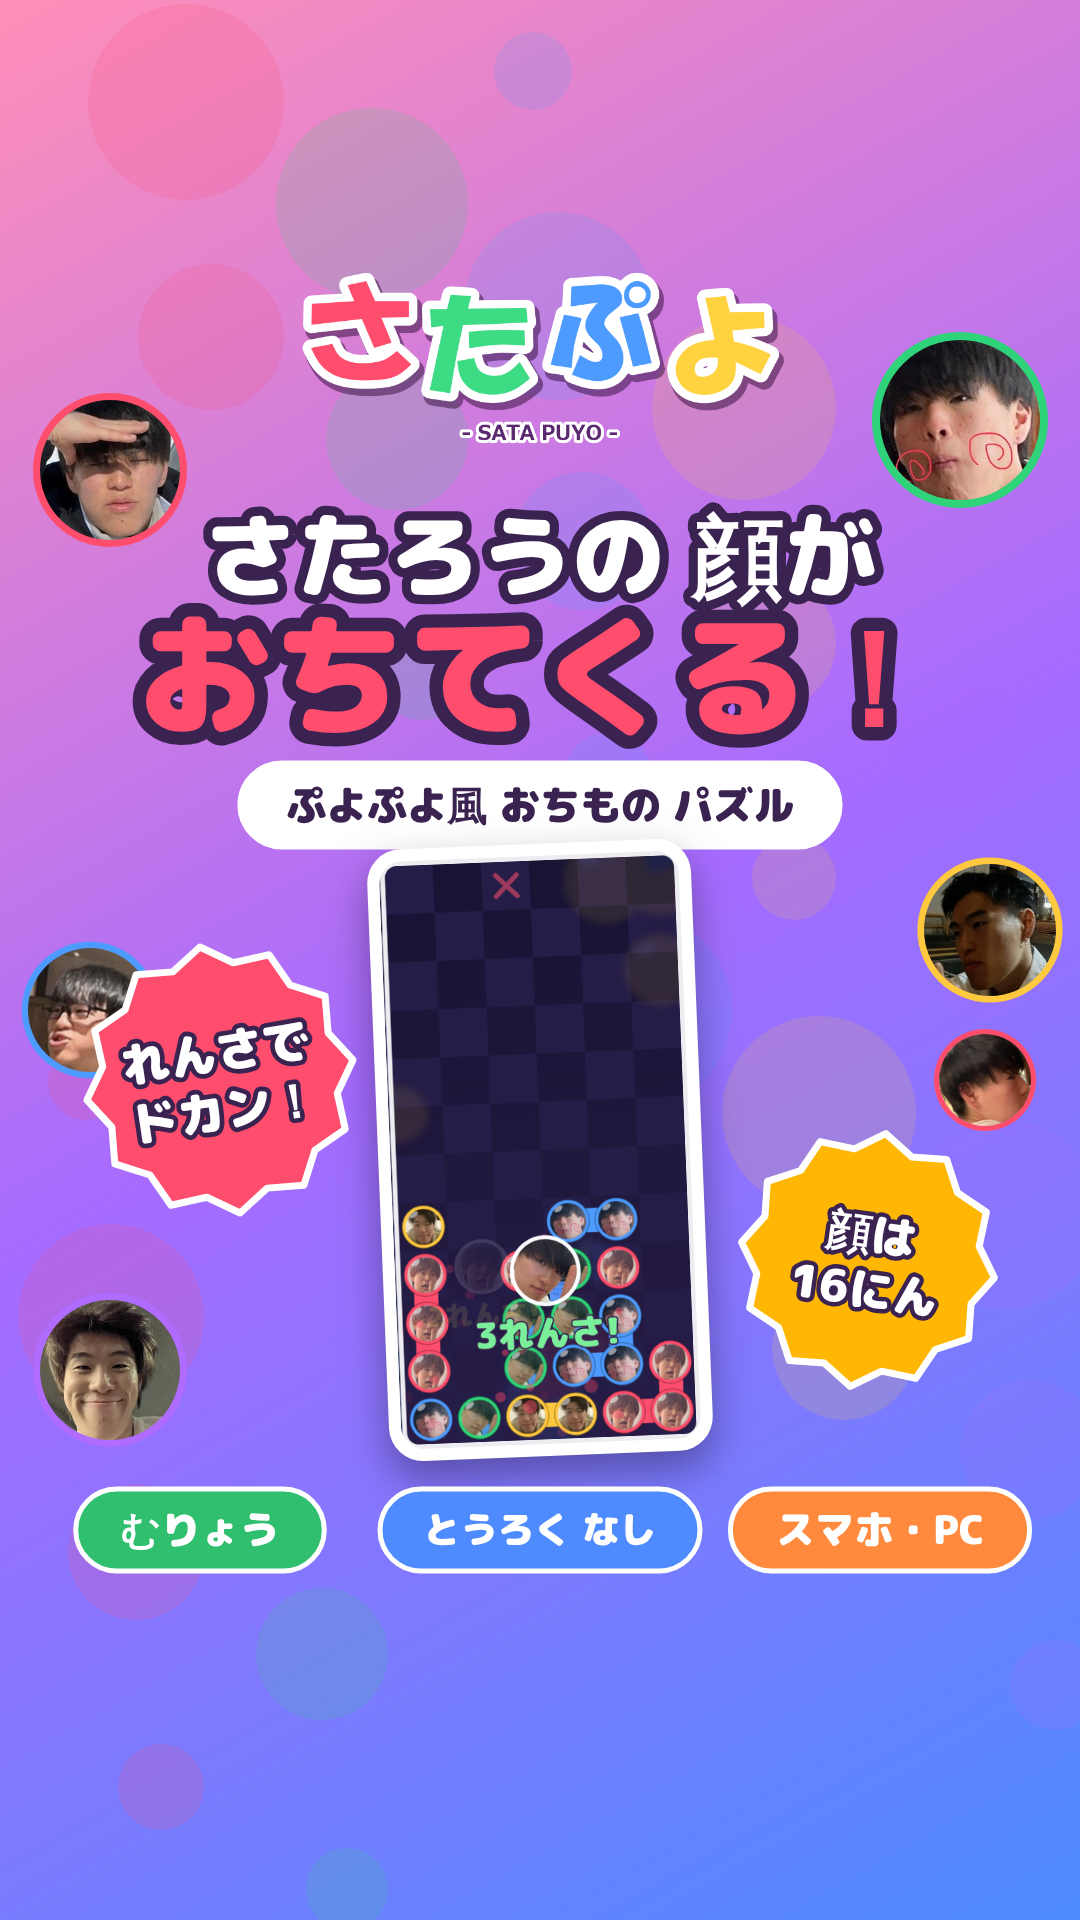
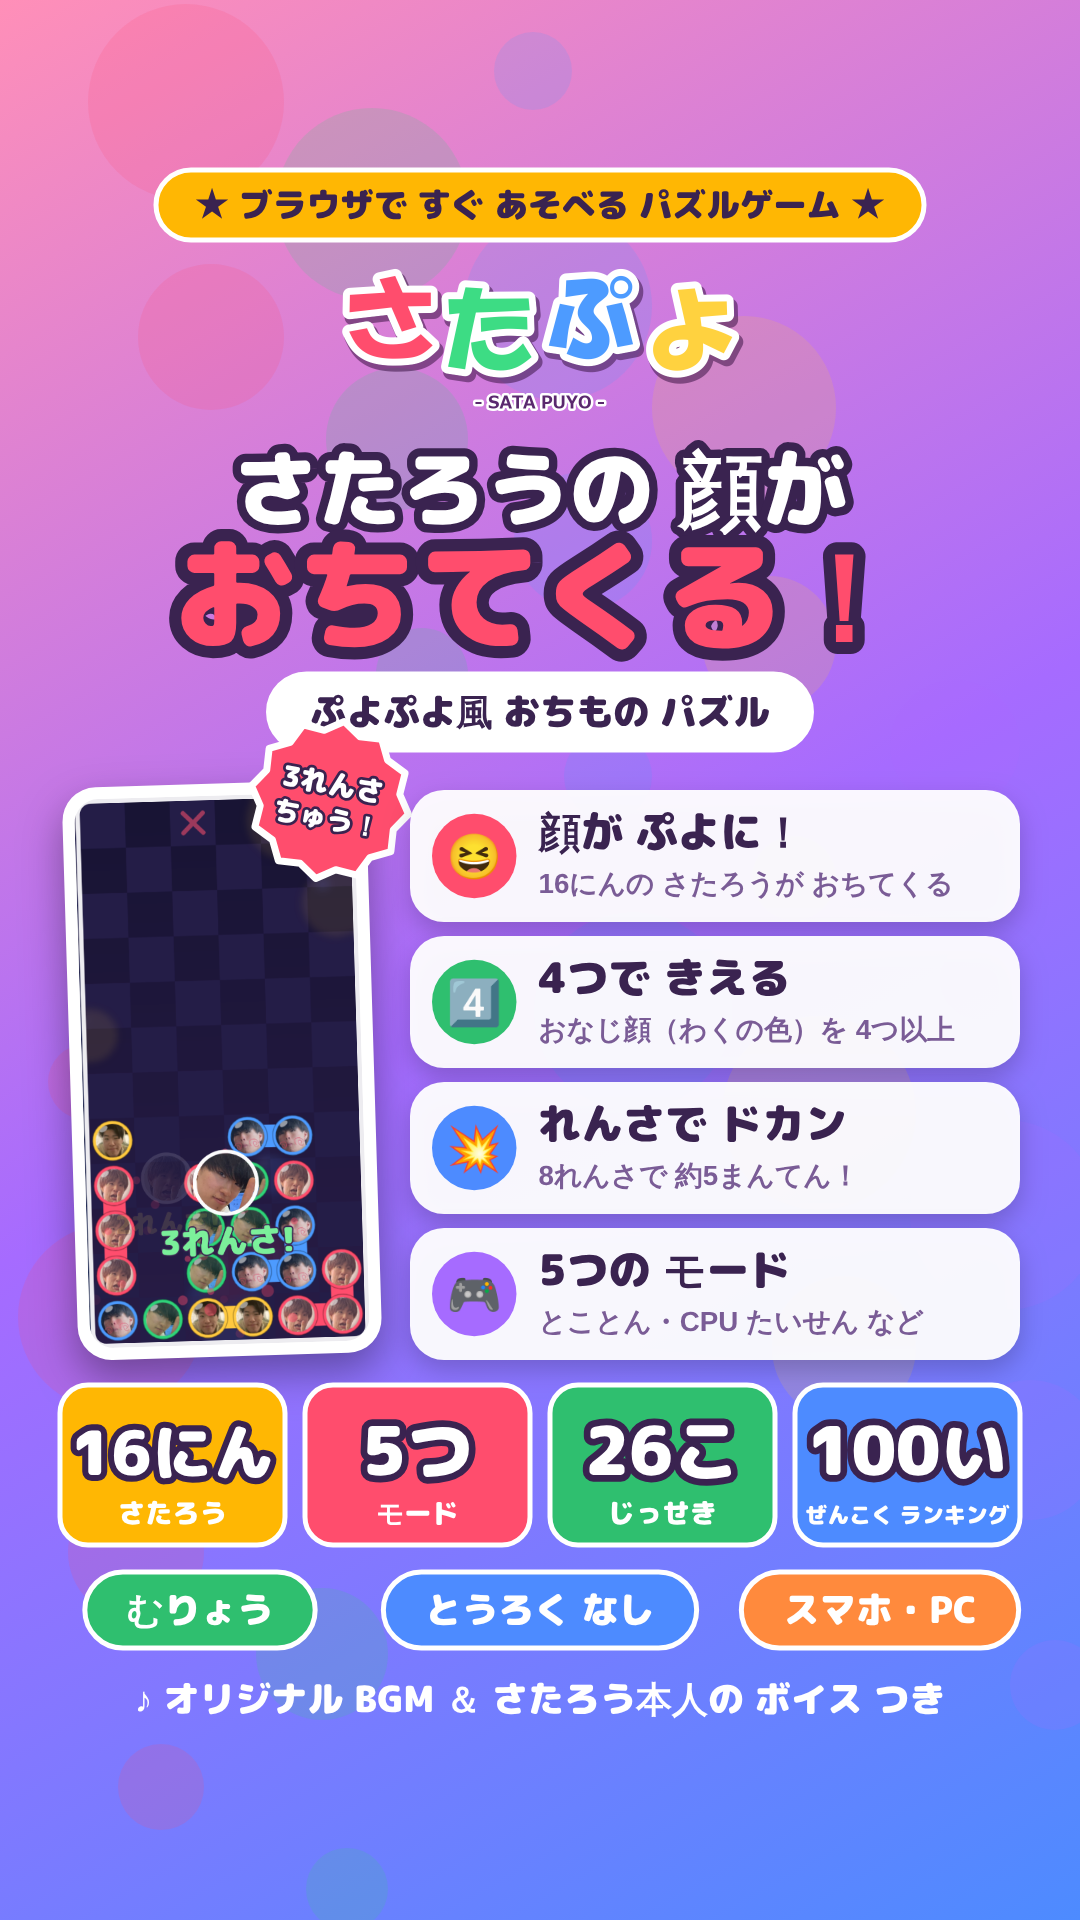
インスタのストーリー広告を情報多めの4まいに作りなおし
Claude-Session: https://claude.ai/code/session_01DBz8UX6wqfkzSfTtDdqhoj

diff --git a/tools/story_ads_draw.js b/tools/story_ads_draw.js
@@ -155,88 +155,175 @@ window.drawStoryAds = async function () {
     if (logo.naturalWidth) g.drawImage(logo, cx - w / 2, y, w, (w * logo.naturalHeight) / logo.naturalWidth);
   };
 
+  // 白いカードに アイコン・見出し・説明
+  function infoCard(g, x, y, w, h, icon, head, body, color) {
+    card(g, x, y, w, h);
+    const r = Math.min(h * 0.32, 46);
+    g.beginPath();
+    g.arc(x + r + 22, y + h / 2, r, 0, Math.PI * 2);
+    g.fillStyle = color;
+    g.fill();
+    font(g, r * 1.05);
+    g.textAlign = 'center';
+    g.fillText(icon, x + r + 22, y + h / 2 + r * 0.38);
+    const tx = x + r * 2 + 44, tw = w - (tx - x) - 20;
+    text(g, head, tx, y + h * 0.43, Math.min(44, h * 0.32), INK, 'left', tw, 900);
+    text(g, body, tx, y + h * 0.78, Math.min(28, h * 0.21), SOFT, 'left', tw, 800);
+  }
+  // 小さいタグ
+  function tag(g, label, x, y, h, color) {
+    font(g, h * 0.56);
+    const w = g.measureText(label).width + h * 0.8;
+    rr(g, x, y, w, h, h / 2);
+    g.fillStyle = color;
+    g.fill();
+    g.textAlign = 'center';
+    g.fillStyle = '#fff';
+    g.fillText(label, x + w / 2, y + h * 0.72);
+    return w;
+  }
+  // 大きい数字のタイル
+  function numTile(g, x, y, w, h, num, label, color) {
+    rr(g, x, y, w, h, 28);
+    g.fillStyle = color;
+    g.fill();
+    g.lineWidth = 5;
+    g.strokeStyle = '#fff';
+    g.stroke();
+    title(g, num, x + w / 2, y + h * 0.56, h * 0.42, '#fff', w - 20);
+    text(g, label, x + w / 2, y + h * 0.86, h * 0.17, '#fff', 'center', w - 16, 900);
+  }
+
   const out = {};
+  const COLORS = ['#ff4d6d', '#2fbf6f', '#4d8bff', '#ffb703', '#a66bff', '#ff8a3d'];
 
   // ---------- 1まいめ：つかみ ----------
   {
     const [c, g] = canvas();
     background(g, 1);
-    fallingFaces(g, [[110, 470, 70, 0], [960, 420, 80, 3], [90, 1010, 62, 5], [990, 930, 66, 8], [110, 1370, 70, 10], [985, 1080, 46, 13]]);
-    logoAt(g, W / 2, 250, 600);
-    title(g, 'さたろうの 顔が', W / 2, 590, 92, '#fff');
-    title(g, 'おちてくる！', W / 2, 725, 134, PINK);
-    pill(g, 'ぷよぷよ風 おちもの パズル', W / 2, 805, 84, '#fff', INK);
-    photo(g, field, W / 2, 1150, 300, -0.04);
-    burst(g, ['れんさで', 'ドカン！'], 220, 1080, 118, PINK, -0.15);
-    burst(g, ['顔は', '16にん'], 868, 1260, 112, GOLD, 0.14);
-    // 下：3つの ポイント
+    pill(g, '★ ブラウザで すぐ あそべる パズルゲーム ★', W / 2, 205, 70, GOLD, INK, W - 140);
+    logoAt(g, W / 2, 250, 500);
+    title(g, 'さたろうの 顔が', W / 2, 520, 84, '#fff');
+    title(g, 'おちてくる！', W / 2, 640, 122, PINK);
+    pill(g, 'ぷよぷよ風 おちもの パズル', W / 2, 712, 76, '#fff', INK);
+    // 左：ゲーム画面　右：ポイント4つ
+    photo(g, field, 222, 1070, 280, -0.03);
+    burst(g, ['3れんさ', 'ちゅう！'], 330, 800, 70, PINK, 0.18);
+    const points = [
+      ['😆', '顔が ぷよに！', '16にんの さたろうが おちてくる', COLORS[0]],
+      ['4⃣', '4つで きえる', 'おなじ顔（わくの色）を 4つ以上', COLORS[1]],
+      ['💥', 'れんさで ドカン', '8れんさで 約5まんてん！', COLORS[2]],
+      ['🎮', '5つの モード', 'とことん・CPU たいせん など', COLORS[4]],
+    ];
+    points.forEach(([icon, head, body, col], i) => infoCard(g, 410, 790 + i * 146, 610, 132, icon, head, body, col));
+    // 数字
+    const nums = [['16にん', 'さたろう'], ['5つ', 'モード'], ['26こ', 'じっせき'], ['100い', 'ぜんこく ランキング']];
+    nums.forEach(([n, l], i) => numTile(g, 60 + i * 245, 1385, 225, 160, n, l, COLORS[[3, 0, 1, 2][i]]));
     const chips = ['むりょう', 'とうろく なし', 'スマホ・PC'];
-    chips.forEach((l, i) => pill(g, l, 200 + i * 340, 1530, 82, ['#2fbf6f', '#4d8bff', '#ff8a3d'][i], '#fff', 320));
+    chips.forEach((l, i) => pill(g, l, 200 + i * 340, 1610, 76, ['#2fbf6f', '#4d8bff', '#ff8a3d'][i], '#fff', 320));
+    text(g, '♪ オリジナル BGM ＆ さたろう本人の ボイス つき', W / 2, 1712, 36, '#fff', 'center', W - 120, 900);
     out.story1_tsukami = c.toDataURL('image/png');
   }
 
-  // ---------- 2まいめ：モードと おたのしみ（情報もりもり） ----------
+  // ---------- 2まいめ：モードと おたのしみ ----------
   {
     const [c, g] = canvas();
     background(g, 7);
-    title(g, '5つの モードで あそべる！', W / 2, 330, 80, '#fff');
+    title(g, '5つの モードで あそべる！', W / 2, 300, 78, '#fff');
     const modes = [
-      ['♾', 'とことんモード', 'つみあがるまで ずっと。100まんてんで…？', '#ff4d6d'],
-      ['⏱', 'タイムアタック', `${CFG.timeAttackSeconds}びょうで スコアかせぎ`, '#2fbf6f'],
-      ['✨', 'ぜんけしアタック', 'ぜんぶ けすまでの タイムを きそう', '#ff8a3d'],
-      ['⚔', 'CPU たいせん', 'おじゃまぷよで しょうぶ（3だんかい）', '#a66bff'],
-      ['🥋', 'くみて', 'かちぬき戦。かつほど あいてが つよくなる', '#4d8bff'],
+      ['♾', 'とことんモード', 'つみあがるまで ずっと。25手ごとに スピードアップ', ['100まん点で エンディング', '10れんさ＝約10まん点'], COLORS[0]],
+      ['⏱', 'タイムアタック', `${CFG.timeAttackSeconds}びょうで どこまで スコアを かせげるか`, ['みじかい じかんで サクッと', 'ハイスコア きそう'], COLORS[1]],
+      ['✨', 'ぜんけしアタック', 'ぷよを ぜんぶ けすまでの タイムを きそう', ['はいち 36パターン', 'ぷよ 3〜5しゅるい'], COLORS[5]],
+      ['⚔', 'CPU たいせん', 'れんさで おじゃまぷよを おくりあう たいせん', ['よわい・ふつう・つよい', 'ぷよぷよ通 ルール'], COLORS[4]],
+      ['🥋', 'くみて', 'CPU と かちぬき戦。かつほど あいてが つよくなる', ['おわりなし', 'なんにん ぬけるか'], COLORS[2]],
     ];
-    modes.forEach(([icon, name, desc, color], i) => {
-      const y = 380 + i * 158;
-      card(g, 70, y, W - 140, 140);
+    modes.forEach(([icon, name, desc, tags, color], i) => {
+      const y = 345 + i * 186, h = 172;
+      card(g, 60, y, W - 120, h);
       g.beginPath();
-      g.arc(160, y + 70, 50, 0, Math.PI * 2);
+      g.arc(140, y + 66, 50, 0, Math.PI * 2);
       g.fillStyle = color;
       g.fill();
       font(g, 50);
       g.textAlign = 'center';
-      g.fillText(icon, 160, y + 88);
-      text(g, name, 240, y + 66, 50, INK, 'left', W - 340, 900);
-      text(g, desc, 240, y + 112, 32, SOFT, 'left', W - 340, 800);
+      g.fillText(icon, 140, y + 84);
+      text(g, name, 210, y + 60, 46, INK, 'left', W - 300, 900);
+      text(g, desc, 210, y + 104, 28, SOFT, 'left', W - 300, 800);
+      let tx = 210;
+      tags.forEach((t) => (tx += tag(g, t, tx, y + 122, 38, color) + 10));
     });
-    title(g, 'ほかにも いろいろ', W / 2, 1230, 60, GOLD);
+    title(g, 'ほかにも いろいろ', W / 2, 1335, 58, GOLD);
     const extras = [
-      ['🏆', 'ぜんこく ランキング', '100いまで のる'],
-      ['🎖', 'じっせき', '26この トロフィー'],
-      ['📖', 'さたろう ずかん', '16にんの 顔と キャラ'],
+      ['🏆', 'ぜんこく ランキング', '100いまで じどうで のる'],
+      ['🎖', 'じっせき 26こ', '7れんさ・10にんぬき など'],
+      ['📖', 'さたろう ずかん', '16にんの キャラと けした数'],
       ['📸', 'きろくを シェア', 'ストーリー画像も つくれる'],
+      ['🎵', 'オリジナル BGM', 'タイトル・ゲーム中・エンディング'],
+      ['🔄', 'データ ひきつぎ', 'きしゅへんこう しても OK'],
     ];
     extras.forEach(([icon, name, desc], i) => {
-      const x = 70 + (i % 2) * 480, y = 1262 + Math.floor(i / 2) * 160;
-      card(g, x, y, 460, 146);
-      font(g, 54);
+      const x = 60 + (i % 2) * 490, y = 1368 + Math.floor(i / 2) * 118;
+      card(g, x, y, 470, 106);
+      font(g, 46);
       g.textAlign = 'center';
-      g.fillText(icon, x + 66, y + 92);
-      text(g, name, x + 120, y + 64, 36, INK, 'left', 320, 900);
-      text(g, desc, x + 120, y + 108, 26, SOFT, 'left', 320, 800);
+      g.fillText(icon, x + 52, y + 70);
+      text(g, name, x + 98, y + 46, 32, INK, 'left', 360, 900);
+      text(g, desc, x + 98, y + 86, 23, SOFT, 'left', 360, 800);
     });
     out.story2_mode = c.toDataURL('image/png');
   }
 
-  // ---------- 3まいめ：対戦 ＋ リンク ----------
+  // ---------- 3まいめ：さたろう ずかん（16にん） ----------
+  {
+    const [c, g] = canvas();
+    background(g, 4);
+    title(g, 'おちてくるのは この16にん！', W / 2, 300, 72, '#fff');
+    text(g, 'ぜんいん さたろう。キャラ設定つき', W / 2, 352, 36, '#fff', 'center', W - 120, 900);
+    const cols = 4, gap = 14, cw = (W - 80 - gap * (cols - 1)) / cols, ch = 300;
+    CFG.faces.slice(0, 16).forEach((f, i) => {
+      const x = 40 + (i % cols) * (cw + gap), y = 385 + Math.floor(i / cols) * (ch + gap);
+      card(g, x, y, cw, ch);
+      face(g, faces[i], x + cw / 2, y + 96, 72, COLORS[i % COLORS.length]);
+      text(g, f.name, x + cw / 2, y + 214, 28, INK, 'center', cw - 16, 900);
+      text(g, f.role || '', x + cw / 2, y + 258, 24, SOFT, 'center', cw - 16, 800);
+    });
+    pill(g, 'エンディングでは 16にんから ひとこと…！', W / 2, 1700, 78, GOLD, INK, W - 100);
+    out.story3_zukan = c.toDataURL('image/png');
+  }
+
+  // ---------- 4まいめ：対戦 ＋ リンク ----------
   function cta(adVersion) {
     const [c, g] = canvas();
     background(g, 13);
-    title(g, 'CPU と たいせんも できる！', W / 2, 330, 78, '#fff');
-    photo(g, versus, W / 2, 750, 880, 0.02);
-    burst(g, ['おじゃま', 'ぷよ！'], 880, 880, 100, PINK, 0.2);
-    title(g, 'いますぐ あそぼう！', W / 2, 1255, 104, PINK);
-    text(g, 'むりょう ・ とうろく なし ・ アプリ いらない', W / 2, 1330, 40, '#fff', 'center', W - 140, 900);
+    title(g, 'CPU と たいせん！', W / 2, 290, 80, '#fff');
+    photo(g, versus, W / 2, 640, 740, 0.015);
+    burst(g, ['おじゃま', 'ぷよ！'], 905, 790, 92, PINK, 0.2);
+    // あそびかた 3ステップ
+    const steps = [['1', 'おなじ顔を', '4つ そろえる'], ['2', 'れんさで', 'おじゃまを おくる'], ['3', 'さきに つみあがったら', 'まけ！']];
+    steps.forEach(([n, a, b], i) => {
+      const x = 60 + i * 330, y = 1010;
+      card(g, x, y, 300, 200);
+      g.beginPath();
+      g.arc(x + 150, y + 48, 34, 0, Math.PI * 2);
+      g.fillStyle = COLORS[i];
+      g.fill();
+      title(g, n, x + 150, y + 64, 44, '#fff', 60);
+      text(g, a, x + 150, y + 128, 30, INK, 'center', 280, 900);
+      text(g, b, x + 150, y + 172, 30, INK, 'center', 280, 900);
+    });
+    let tx = 70;
+    [['よわい', COLORS[1]], ['ふつう', COLORS[3]], ['つよい', COLORS[0]], ['くみて（かちぬき）', COLORS[2]]].forEach(([l, col]) => (tx += tag(g, l, tx, 1238, 56, col) + 14));
+    title(g, 'いますぐ あそぼう！', W / 2, 1405, 100, PINK);
+    text(g, 'むりょう ・ とうろく なし ・ アプリ いらない', W / 2, 1470, 38, '#fff', 'center', W - 140, 900);
     if (adVersion) {
-      title(g, '▼ 下の ボタンから すぐ あそべる ▼', W / 2, 1440, 50, GOLD, W - 120);
+      title(g, '▼ 下の ボタンから すぐ あそべる ▼', W / 2, 1550, 48, GOLD, W - 120);
     } else {
-      // この下（だいたい y=1450〜1620）は あけておく。インスタの「リンク」スタンプを あとで はる
-      title(g, '▼ リンクから すぐ あそべる ▼', W / 2, 1410, 50, GOLD, W - 120);
+      // この下（だいたい y=1570〜1760）は あけておく。インスタの「リンク」スタンプを あとで はる
+      title(g, '▼ リンクから すぐ あそべる ▼', W / 2, 1550, 48, GOLD, W - 120);
     }
     return c.toDataURL('image/png');
   }
-  out.story3_link = cta(false);
-  out.story3_ad = cta(true);
+  out.story4_link = cta(false);
+  out.story4_ad = cta(true);
   return out;
 };
